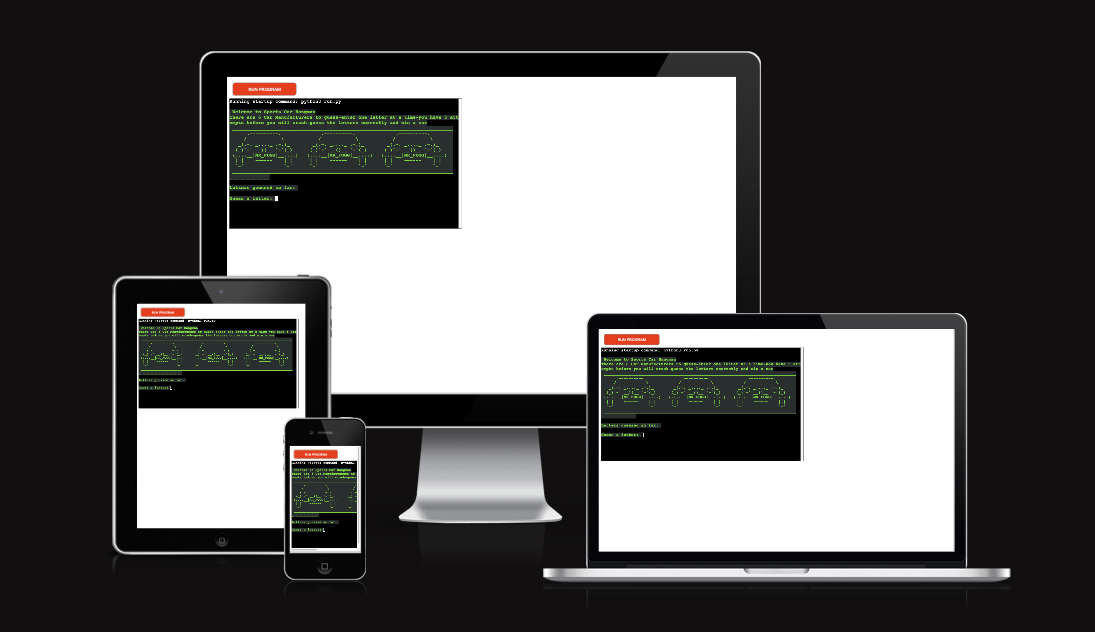
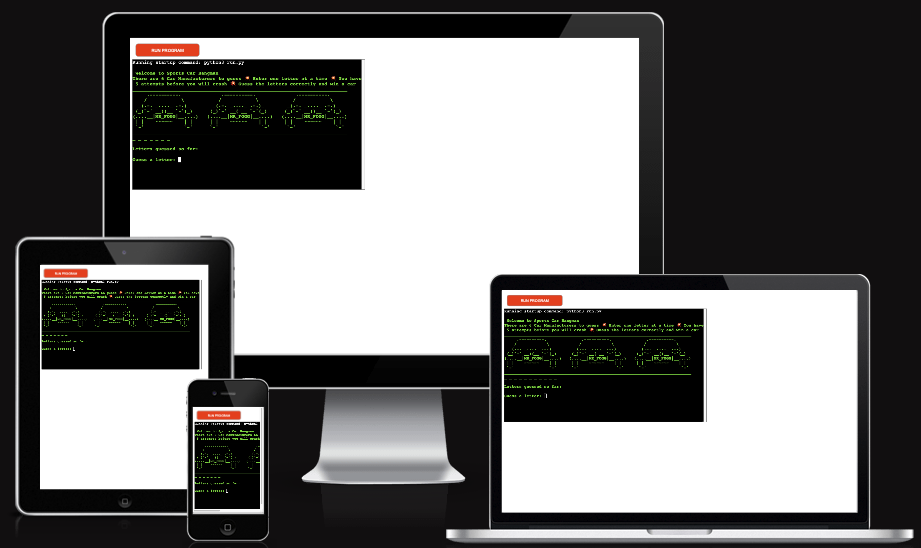
testing

diff --git a/run.py b/run.py
@@ -19,7 +19,7 @@ print("(....__|MR_FOGG|__....)   (....__|MR_"
 print(" | |    ~~~~~~    | |      | |    ~~~"
       "~~~    | |      | |    ~~~~~~    | |  ")
 print(" `-'              `-'      `-'        "
-      "       `-'      `-'              `-' ")
+      "      `-'      `-'              `-' ")
 print("_______________________________________"
       "____________________________________")
 

diff --git a/README.md b/README.md
@@ -6,10 +6,7 @@ Welcome to the Hangman Sports Car Edition, this is a variation on the clasic han
 
 instead of your man becoming closer to a good old hanging like in the classic game, you will spell out the word crash if you cant guess the name of the sports car, resulting in absolute mayhem!!
 
-
-![screenshot](media/ami2.png)
-
-
+![screenshot](media/ami.png)
 
 ## How to use:
 
@@ -19,10 +16,9 @@ instead of your man becoming closer to a good old hanging like in the classic ga
 
 #### Features:
 
-
 - When you run the programme you are greeted by the following welcome screen:
 
-![intro](media/intro.png)
+![intro](media/welcome.png)
 
 - You are then prompted to choose a letter & shown the amount of letters to guess.
 
@@ -45,10 +41,7 @@ instead of your man becoming closer to a good old hanging like in the classic ga
 
 ![winner](media/winner.png)
 
-
-
 #### User Goals and objectives:
-
 
 The main goals and objectives of this programme are as follows:
 
@@ -57,10 +50,7 @@ The main goals and objectives of this programme are as follows:
 - To be simple to use with easy to follow instructions.
 - The programme will provide a final message saying you have lost or won.
 
-
-
 #### Deployment:
-
 
 To Deploy this project i used Heroku, the steps i used are as follows:
 
@@ -76,7 +66,6 @@ To Deploy this project i used Heroku, the steps i used are as follows:
 
 #### Testing:
 
-
 - I would of ran the code through the https://pep8online.com/ but its currently down, so i installed pycodestyle by entering pip3 install pycodestyle into the terminal, this will shoW PEP8 errors and provide a list of PROBLEMS in the tab next the terminal as pictures below.
 
 ![problems](media/problems.png)
@@ -86,7 +75,6 @@ To Deploy this project i used Heroku, the steps i used are as follows:
 ![fixed](media/fixed.png)
 
 #### Manual Testing:
-
 
 - I have enterered too many letters, and get this message.
 
@@ -107,9 +95,7 @@ To Deploy this project i used Heroku, the steps i used are as follows:
 ![cheat](media/cheat.png)
 
 
-
 #### Phase 2:
-
 
 - There are some additional features that could be added at a later stage to create a more detailed and complete picture for the user some of these are noted below
 
@@ -120,7 +106,6 @@ To Deploy this project i used Heroku, the steps i used are as follows:
 
 
 #### Technologies Used: 
-
 
 - [Github](https://github.com/) was used to create the repository and to store the project's code after pushed from Git.
 
@@ -137,12 +122,7 @@ To Deploy this project i used Heroku, the steps i used are as follows:
 - [Ami](https://ui.dev/amiresponsive) - this was used to create the screenshot image at the top of the readme file.
 
 
-
-
-
-
-
 #### Credits:
 
-- 
+- Codeinstitute - The tutor team is really helpful with getting any issues resovled quickly
 - Marcel - My mentor Marcel was extreamly helpful as always helping me feel confident in what I have made.
